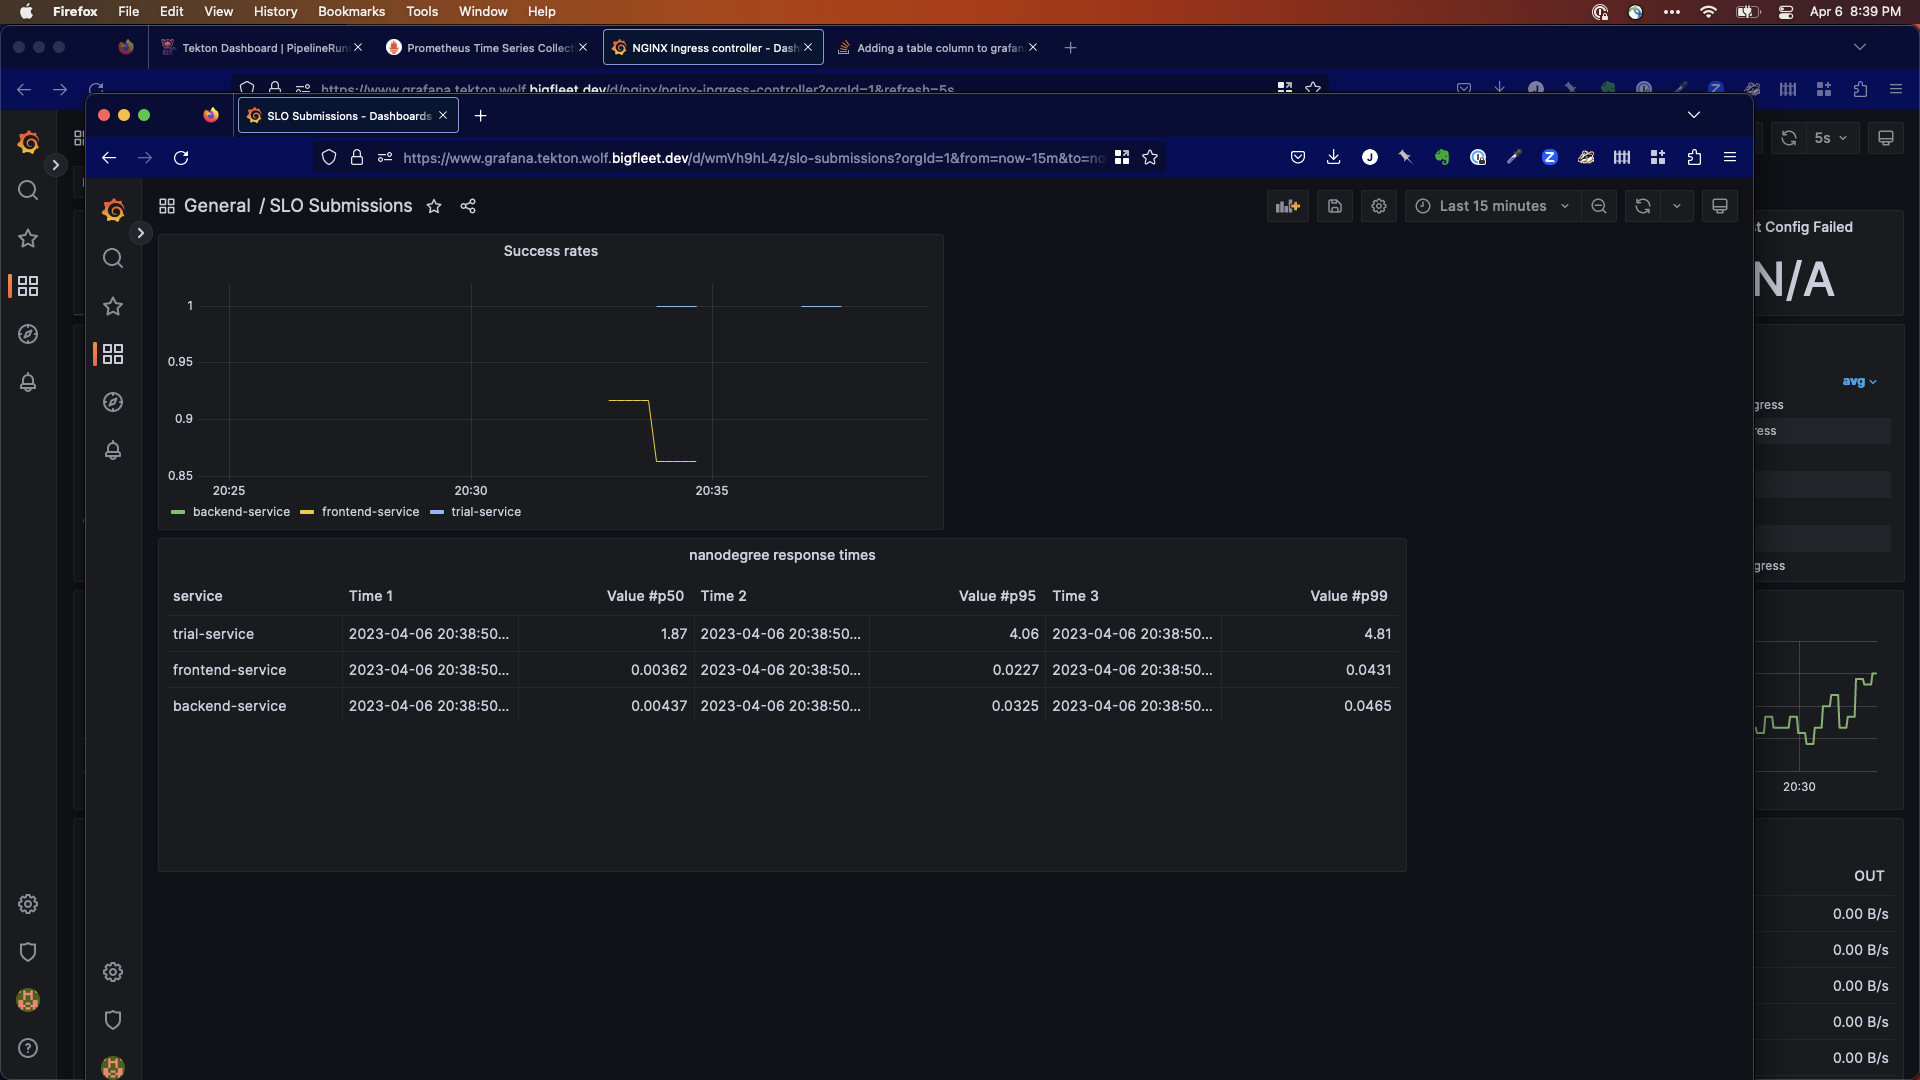
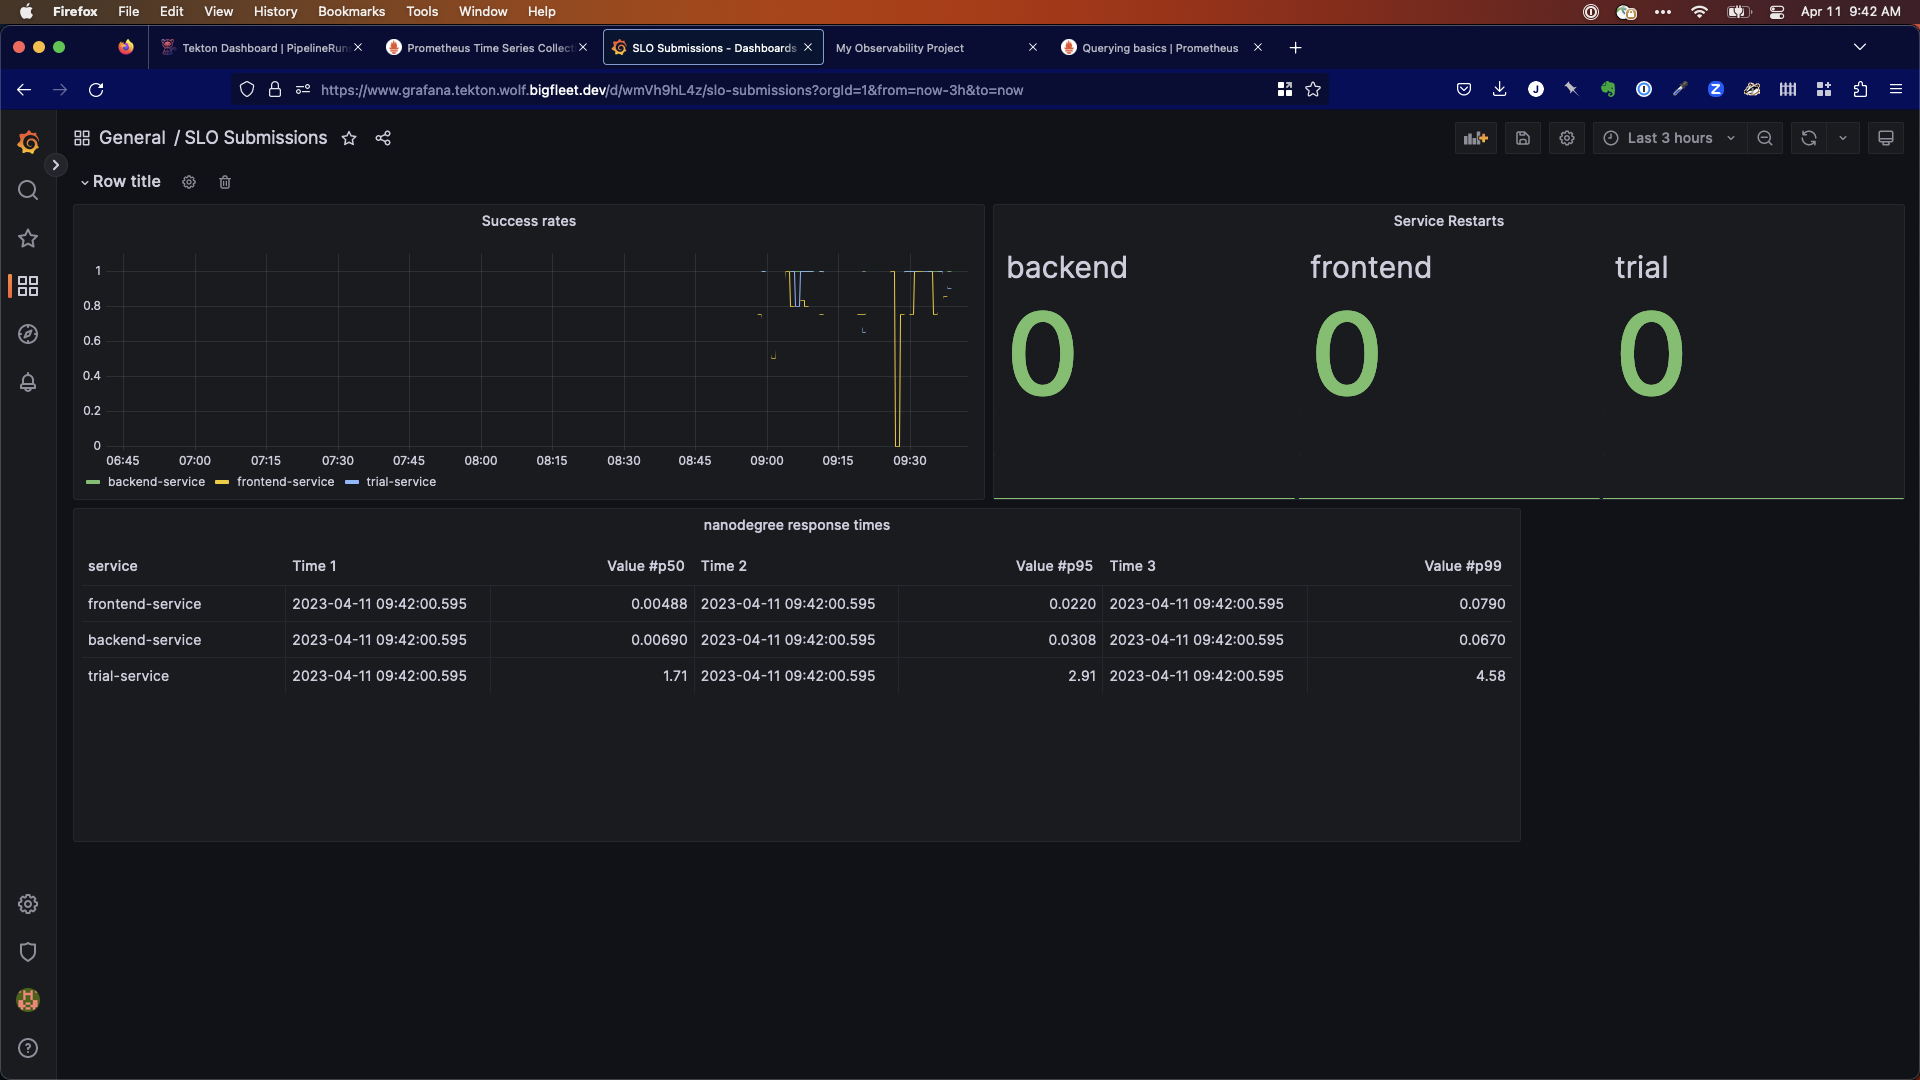
Updating submission per review

diff --git a/Project_Starter_Files-Building_a_Metrics_Dashboard/README.md b/Project_Starter_Files-Building_a_Metrics_Dashboard/README.md
@@ -92,6 +92,8 @@ Database interactivity creates 500s
 
 As seen in [this trace](https://www.grafana.tekton.wolf.bigfleet.dev/explore?left=%7B%22datasource%22:%22XJyML2LVk%22,%22queries%22:%5B%7B%22query%22:%226a872069cb5ed0f4%22,%22refId%22:%22A%22%7D%5D,%22range%22:%7B%22from%22:%22now-1h%22,%22to%22:%22now%22%7D%7D&orgId=1&right=%7B%22datasource%22:%22XJyML2LVk%22,%22queries%22:%5B%7B%22query%22:%226a872069cb5ed0f4%22,%22refId%22:%22A%22%7D%5D,%22range%22:%7B%22from%22:%221681136032465%22,%22to%22:%221681139632465%22%7D,%22panelsState%22:%7B%22trace%22:%7B%22spanId%22:%2263b680da6e445b07%22%7D%7D%7D), the MongoDB created for this application still has insufficient structure to respond correctly with respect to forming a response on the server-side.  Either interact with the created database in a way to resolve this issue, improve your error handling, or provide operations with a database preparation script that we can ensure runs as a part of service start-up.
 
+![Jaeger 500 trace](/answer-img/6-jaeger-trace.png)
+
 #### Cache query results
 
 Date: 2003/04/10
@@ -119,19 +121,37 @@ Given an SLO commitment of our application has a 99.95% uptime per month, we'd b
 
 ### KPIs
 
+Here, again, is the dashboard.
+
+![Grafana Dashboard Sample](/answer-img/3-grafana-dash.png)
+
 #### Error rates and budgets
 
 *SLI: Less than 1% of requests to service should result in 500 status codes*
 
+Status codes in the 200's and 300's are commonplace in web service software.
+Services operating on the public internet are subject to all manner of traffic with malicious intent, much of which will be in the 400 class.  It forms a poor basis for a SLI because it won't go up and down as customer experience improves.
+500 errors, on the other hand, are always an issue that the technical team can improve.  A 503 usually indicates a service has failed or is struggling to meet its goals in a fixed timeframe.  A 500 is often a programming error.  These errors are good candidates to track with an SLI, as customer experience can always be improved, and it's a leading indicator.
+
+The graph in the dashboard shows this error rate tracked for each service.  Presenting this together can help determine if there are any correlations in increased error rates that might be even more pressing.
+
 #### Latency
 
 *SLI: At the 95th percentile of latency, requests to service should return in less than 1 second*
+
+Speed is paramount to the customer experience on the Internet.  The curve of satisfaction drops steeply at higher values for response time, while the difference between very fast and fast is not as important.  With this preference set, we want to set an expectation on the basis of the largest preponderance of our responses, while retaining some resistance to having a single outlier move us past a threshold.
+
+Latency is displayed in a table above.    The table contains average, p50, p95 and p99 timings for each service in the time period.
+
+Since the time this course was written, Grafana has iterated on its table concept, and I was not able to completely eliminate or reduce the "time" column without making the response figures inaccurate, so those are still there.
 
 #### Availability
 
 *SLI: Fewer than 1 container restarts for service per 24hr period*
 
 With a Kubernetes runtime, a container restart is a reasonable proxy for momentary unavailability, particularly if our deployments currently target 1 replica, as they do today.
+
+These are raw statistics, and are not graphed.
 
 ## Learnings
 
